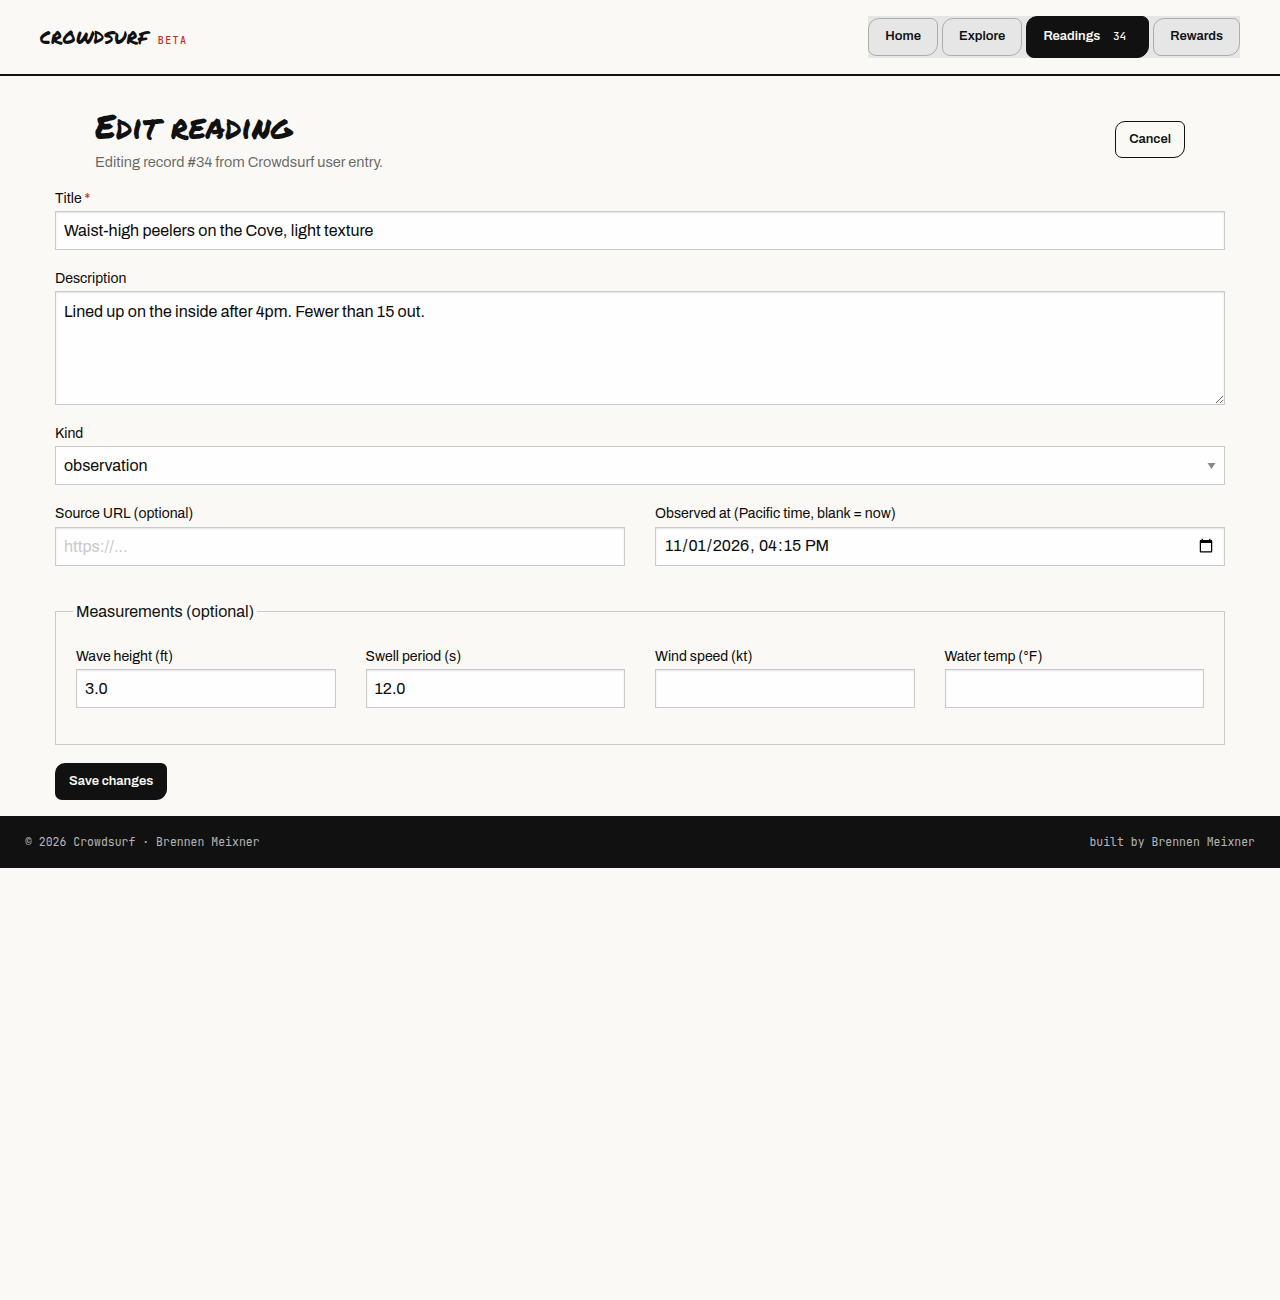
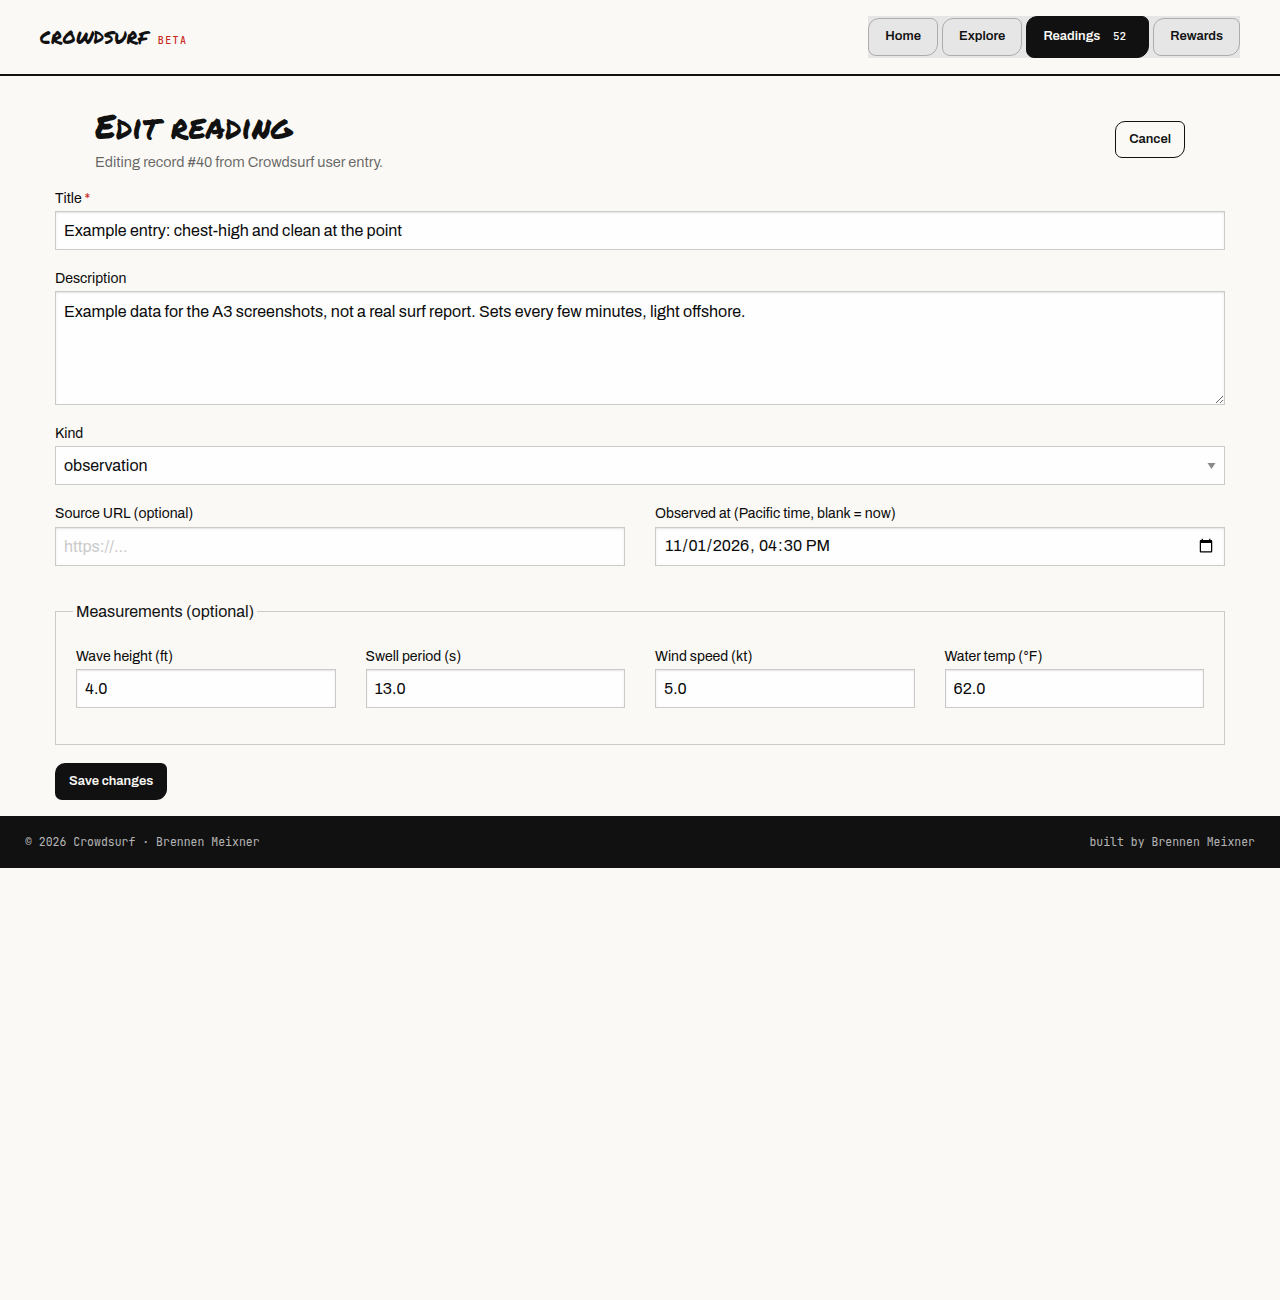
Update README and screenshots for A3: live MySQL, RapidAPI free-plan fallback, AI summary
- Screenshots retaken from the CI-Keys MySQL database with live API and Claude data
- New a3-ai-summary screenshot (stored AI summary with grounding check)
- Document the RapidAPI 401 fallback in features, error handling, design decisions, limitations
- Tunnel command uses ssh -N (CI-Keys has no shell access)

diff --git a/README.md b/README.md
@@ -130,7 +130,7 @@ User clicks "Save this snapshot" (POST /break/rincon/save, CSRF token checked)
        → duplicate check: same (source, external_id = break:source:hour) already stored?
             yes → update that row      no → insert a new Reading
   → one transaction: commit, or roll back everything on error
-  → redirect with a message ("Saved 11 new reading(s)… Skipped (unavailable): …")
+  → redirect with a message ("Saved 12 new reading(s)… Skipped (unavailable): …")
 ```
 
 **Manual create / edit**
@@ -164,8 +164,9 @@ POST /break/<id>/summarize → latest saved readings for the break (newest per s
 
 - **Homepage** (`/`) and shared layout. The nav shows a live count of stored readings.
 - **API integration:** 13 external calls per break: Open-Meteo marine and weather, NOAA NWS forecast and
-  alerts, NOAA CO-OPS tides (3 products), NOAA SPC outlook, RainViewer radar, **RapidAPI WeatherAPI.com
-  Marine** (second-opinion forecast and tides), **NOAA NDBC realtime feed** (24-report observed trend),
+  alerts, NOAA CO-OPS tides (3 products), NOAA SPC outlook, RainViewer radar, **RapidAPI WeatherAPI.com**
+  (second-opinion forecast: marine swell and tides on a paid plan, wind/gusts/rain/conditions on the
+  free plan), **NOAA NDBC realtime feed** (24-report observed trend),
   **USNO** (first light, sunrise, sunset, moon phase), **CA Water Boards Beach Watch** (bacteria advisories
   near the break). New in A3 in bold.
 - **Web scraping:** the NOAA NDBC buoy station page (BeautifulSoup), compared against the forecast.
@@ -250,10 +251,14 @@ Workaround" handout).
    ```
 5. **Open the SSH tunnel to CI-Keys MySQL** (leave this terminal open):
    ```bash
-   ssh -o IdentitiesOnly=yes -o ExitOnForwardFailure=yes \
+   ssh -N -o IdentitiesOnly=yes -o ExitOnForwardFailure=yes \
        -L 127.0.0.1:3307:127.0.0.1:3306 -i ~/.ssh/cikeys -p 22 \
        <CPANEL_USERNAME>@<CIKEYS_SERVER>
    ```
+   `-N` means "forward the port only, don't open a shell". CI-Keys accounts don't have shell access, so
+   without `-N` the server replies "Shell access is not enabled on your account!" and closes the
+   connection (and the tunnel with it). With `-N` the terminal just sits there, which means it's working.
+   Check it from another terminal with `nc -zv 127.0.0.1 3307`.
 6. **Initialize the database** (creates the `readings` table from the committed migration):
    ```bash
    export FLASK_APP=app.py            # Windows: set FLASK_APP=app.py
@@ -265,7 +270,7 @@ Workaround" handout).
    ```
 8. **Test**
    ```bash
-   python -m pytest tests/            # 102 tests, no network or MySQL needed
+   python -m pytest tests/            # 107 tests, no network or MySQL needed
    ```
 
 If the `DB_*` variables are not set, the app logs a warning and uses a local SQLite file
@@ -284,7 +289,7 @@ All are read in `config.py` with `os.environ.get(...)`. Real values go only in `
 | `DB_PORT` | no (default 3306) | `3307` with the tunnel above |
 | `DB_NAME` | yes (MySQL) | database name |
 | `SECRET_KEY` | yes in practice | signs the session cookie and CSRF tokens |
-| `RAPIDAPI_KEY` | optional | RapidAPI key for WeatherAPI.com Marine. Without it, only the Second Opinion tab is unavailable. |
+| `RAPIDAPI_KEY` | optional | RapidAPI key subscribed to WeatherAPI.com (the free Basic plan works). Without it, only the Second Opinion tab is unavailable. |
 | `ANTHROPIC_API_KEY` | optional | Claude API key for AI summaries. Without it, the Summarize button shows a message instead. |
 | `ANTHROPIC_MODEL` | no (default `claude-opus-5-5`) | Claude model id |
 | `NWS_USER_AGENT` | recommended | contact string required by the NWS API usage policy |
@@ -304,7 +309,11 @@ password are escaped safely. It is never printed or logged.
   Create/update/delete only accept POST (a GET to `/delete` returns 405), and every POST needs a valid
   CSRF token (missing token → 400).
 - **Missing API key:** `RAPIDAPI_KEY` missing → the Second Opinion tab says so and no request is
-  sent. `ANTHROPIC_API_KEY` missing → the Summarize button shows "AI summaries are off". Everything
+  sent. **Key without access to an endpoint:** RapidAPI's free plan answers the marine endpoint with
+  HTTP 401 ("This endpoint is disabled for your subscription"). The service treats a 401/403 from that
+  endpoint as "not on this plan" and switches to WeatherAPI.com's forecast endpoint (wind, gusts, rain,
+  conditions), and the tab explains the switch. A 401 on both endpoints means the key itself is wrong,
+  and the tab says to check the key and plan. `ANTHROPIC_API_KEY` missing → the Summarize button shows "AI summaries are off". Everything
   else keeps working.
 - **API failures:** every source returns `{live, source, data, fetched_at, error}` and never raises.
   A failed source shows the last saved copy, clearly labeled, or an "unavailable" message if none
@@ -324,13 +333,15 @@ password are escaped safely. It is never printed or logged.
 
 ## Screenshots
 
-Captured from the running app on 2026-11-01 (local development database). The Rincon manual entry
-shown was typed in during testing to demonstrate the form. It is example data, not a real surf report.
+Captured from the running app on 2026-11-01 (Pacific time) against the **cloud MySQL database on CI-Keys**
+(MariaDB 11.4, reached through the SSH tunnel), with live API data and a real RapidAPI key and Claude API key.
+The Rincon manual entry ("Example entry: …") was typed in to demonstrate the form. It is labeled as example
+data, not a real surf report.
 
-**Homepage**
+**Homepage** (the nav shows the number of readings stored in MySQL)
 ![Homepage](docs/screenshots/a3-homepage.png)
 
-**Break page with the new Save / Summarize / Add-a-note actions**
+**Break page: Save / Summarize / Add-a-note actions and the latest stored AI summary**
 ![Break detail with persistence actions](docs/screenshots/a3-break-detail-save.png)
 
 **Database-backed list of stored readings (`/readings`)**
@@ -341,6 +352,9 @@ shown was typed in during testing to demonstrate the form. It is example data, n
 
 **Example of stored information: an acquired Open-Meteo reading with provenance and stored data**
 ![Stored API reading](docs/screenshots/a3-reading-detail-api.png)
+
+**Example of stored information: a Claude AI summary with its grounding check and metadata**
+![Stored AI summary](docs/screenshots/a3-ai-summary.png)
 
 **Stored manual reading**
 ![Stored manual reading](docs/screenshots/a3-reading-detail-note.png)
@@ -360,7 +374,7 @@ shown was typed in during testing to demonstrate the form. It is example data, n
 **New sources: USNO daylight + CA Beach Watch advisories**
 ![Daylight and water quality](docs/screenshots/a3-daylight-water-quality.png)
 
-**RapidAPI Second Opinion tab (shown without a key: the graceful "missing key" state)**
+**RapidAPI Second Opinion tab (live, free plan: WeatherAPI.com wind and gusts vs. Open-Meteo)**
 ![Second opinion tab](docs/screenshots/a3-second-opinion.png)
 
 ## Design Decisions
@@ -385,9 +399,12 @@ shown was typed in during testing to demonstrate the form. It is example data, n
   767-byte limit with 4-byte utf8mb4 characters.
 - **Breaks stay in JSON for A3.** They are six hand-curated records, and the assignment's focus is
   persisting *acquired* information. Moving them into a `breaks` table is the first step of A4.
-- **RapidAPI choice:** WeatherAPI.com's Marine endpoint on RapidAPI was picked because it is an independent
-  forecast model with swell height, period, direction and its own tide table. That makes it a true second
-  opinion next to Open-Meteo, not another copy of NOAA data.
+- **RapidAPI choice:** WeatherAPI.com on RapidAPI was picked because it is an independent forecast model,
+  a true second opinion next to Open-Meteo rather than another copy of NOAA data. Its Marine endpoint
+  (swell height, period, direction, tides) is the best fit, but RapidAPI's free plan blocks it with
+  HTTP 401. Rather than pay for the plan, the service falls back to the free forecast endpoint. Wind is
+  the other half of a surf call (offshore vs. onshore), so comparing two models' wind and gusts is still
+  useful, and swell comes back automatically if the plan is upgraded.
 - **AI summary design (preview of A5):** built only from stored readings, a bounded context (newest per
   source plus up to five notes), a number-grounding check, and full metadata stored with the output.
   Uses the official `anthropic` Python SDK with model `claude-opus-5-5`. Server-side refusal fallbacks
@@ -405,8 +422,13 @@ shown was typed in during testing to demonstrate the form. It is example data, n
 - **Beach Watch data lags.** The state republishes it about monthly (newest Ventura record:
   2026-03-03), so it's shown as recent history, not today's status.
 - **RapidAPI and Claude need keys** that aren't committed. Without them, those two features show their
-  "off" messages. The RapidAPI response parser and the Claude request were tested against mocked
-  responses and a local stub server, not against the live services.
+  "off" messages. Both were also tested live with real keys (see Screenshots). The automated tests use
+  mocked responses so they never spend money or need the network.
+- **RapidAPI free plan has no swell data.** The Second Opinion tab compares wind and weather only, until
+  the RapidAPI plan includes WeatherAPI.com's marine endpoint.
+- **Some sources have gaps.** The NOAA CO-OPS water-temperature product currently returns no data for the
+  mapped station, and the NDBC feed sometimes leaves the wave period blank (stored and shown as "n/a").
+  Snapshots skip a source that is down and say which one.
 - **The grounding check covers numbers only.** It can't catch a wrong non-numeric claim (e.g. the
   wrong wind direction).
 - **Station mapping is still a static table** in `breaks.json`, not a nearest-station lookup.

diff --git a/.claude/rules/database.md b/.claude/rules/database.md
@@ -17,11 +17,12 @@ Dependencies: `Flask-SQLAlchemy`, `Flask-Migrate`, `PyMySQL`
 CI-Keys MySQL is not directly reachable; Brennen connects through an SSH tunnel
 (from the course "CI Keys SSH Workaround" handout). With the tunnel open:
 ```bash
-ssh -o IdentitiesOnly=yes -o ExitOnForwardFailure=yes \
+ssh -N -o IdentitiesOnly=yes -o ExitOnForwardFailure=yes \
     -L 127.0.0.1:3307:127.0.0.1:3306 -i ~/.ssh/cikeys -p 22 \
     <CPANEL_USERNAME>@<CIKEYS_SERVER>
 ```
-Leave that terminal open. Then in `.env`: `DB_HOST=127.0.0.1`, `DB_PORT=3307`
+`-N` is required: CI-Keys has no shell access, so without it the server says
+"Shell access is not enabled on your account!" and closes the tunnel. Leave that terminal open. Then in `.env`: `DB_HOST=127.0.0.1`, `DB_PORT=3307`
 (3307 so it does not clash with a local MySQL on 3306).
 In MySQL Workbench the same connection is "Standard TCP/IP over SSH": SSH host
 = the server from the CI Keys page + `:22`, SSH user = cPanel username, key file
